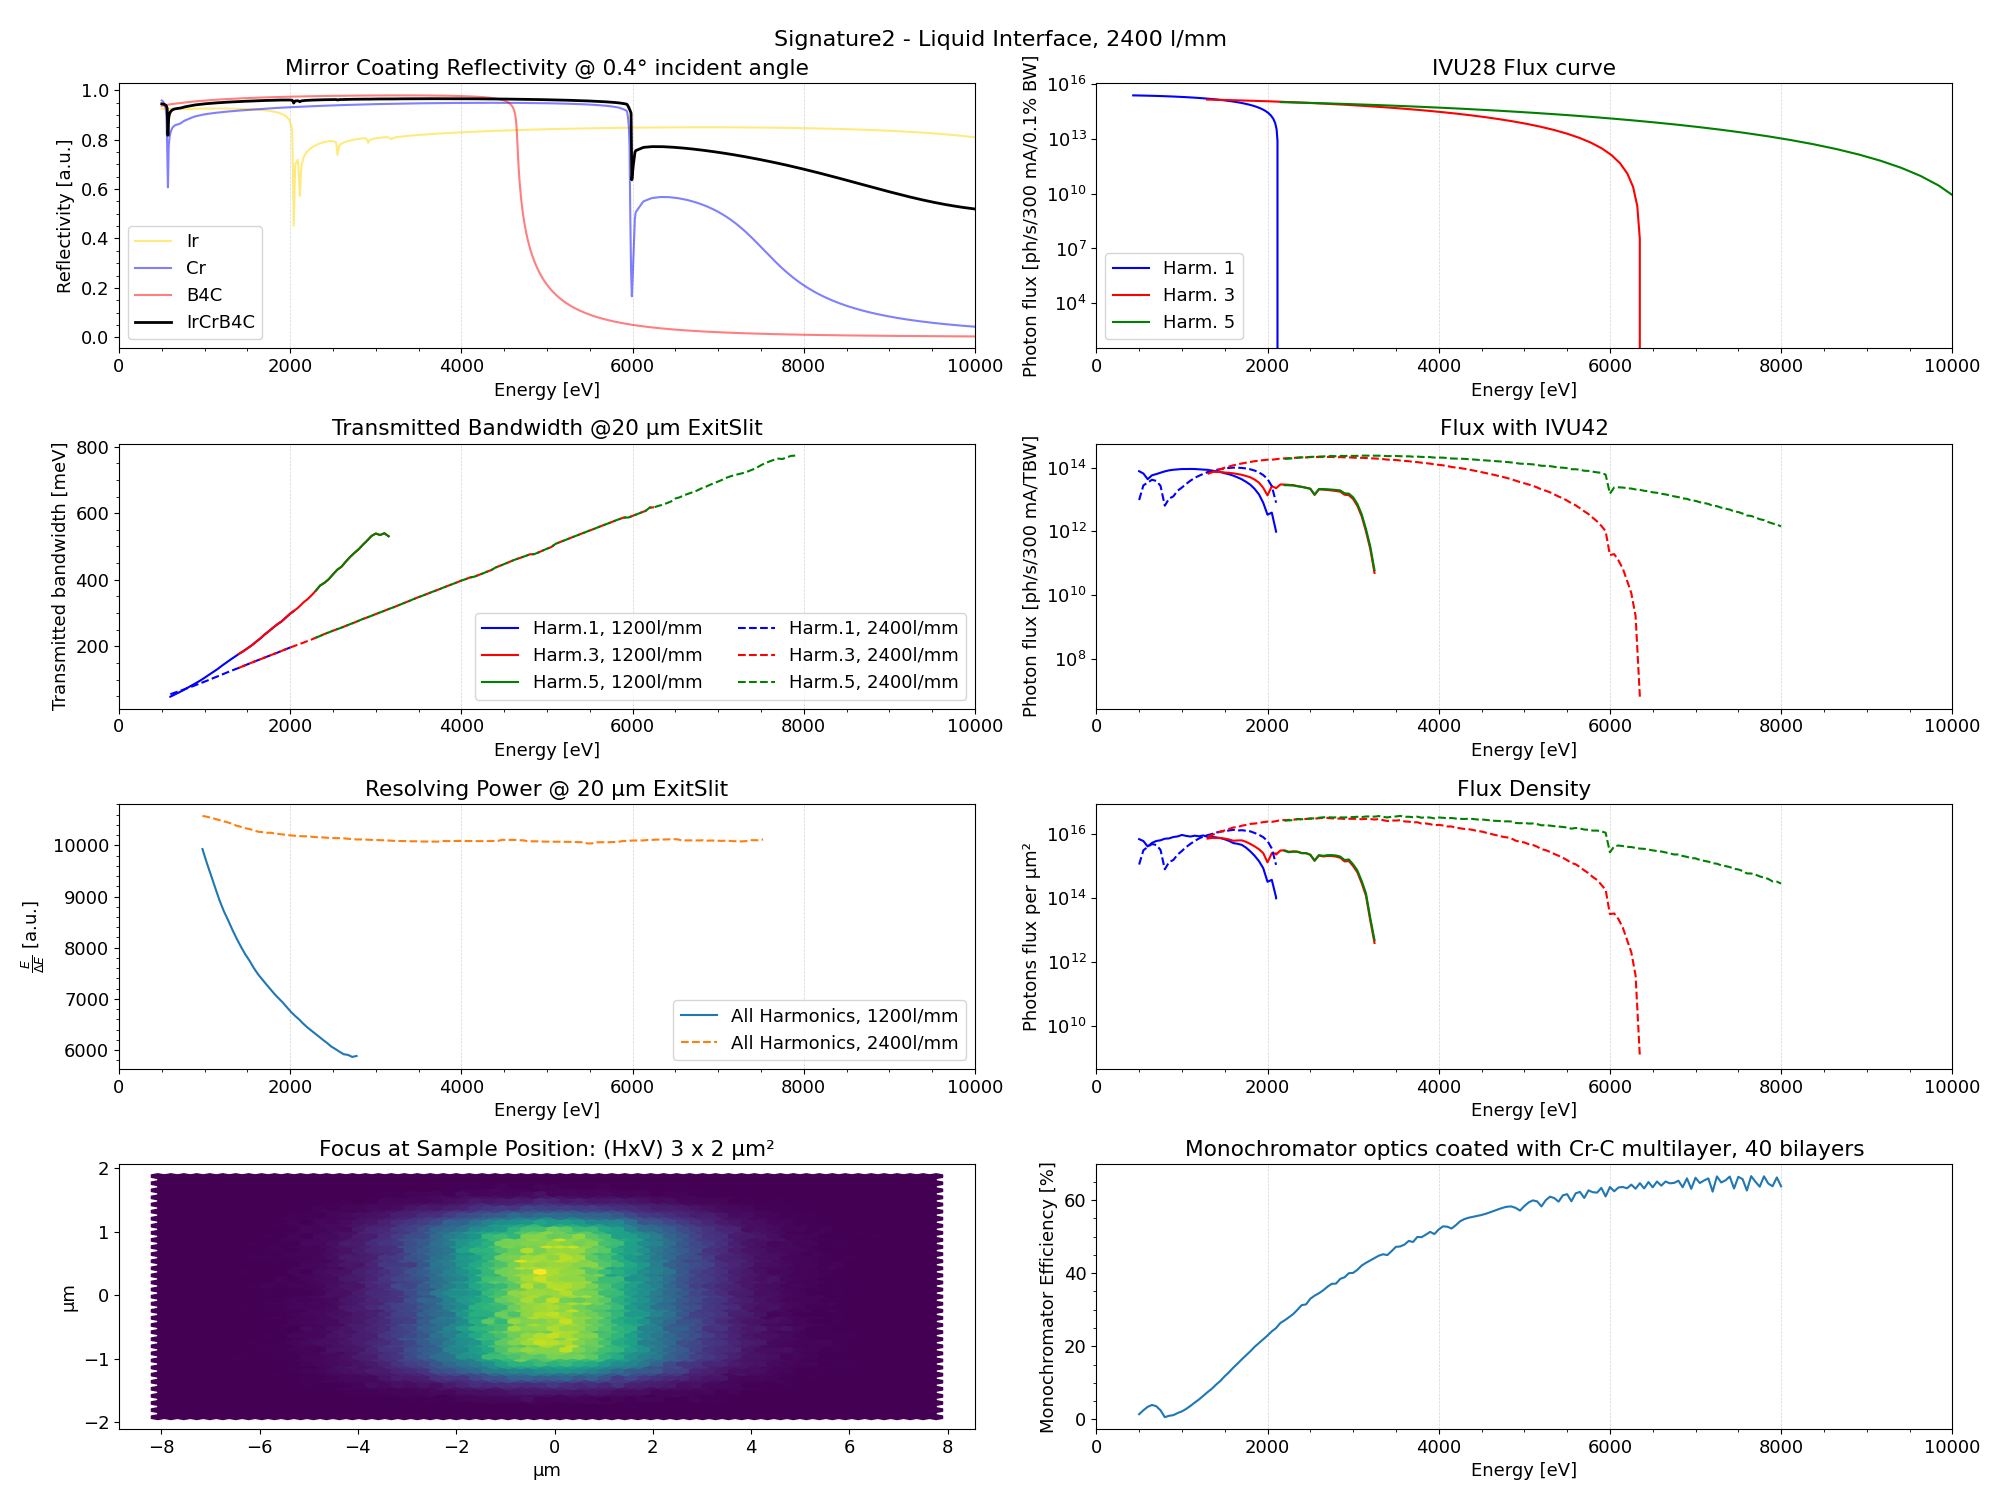
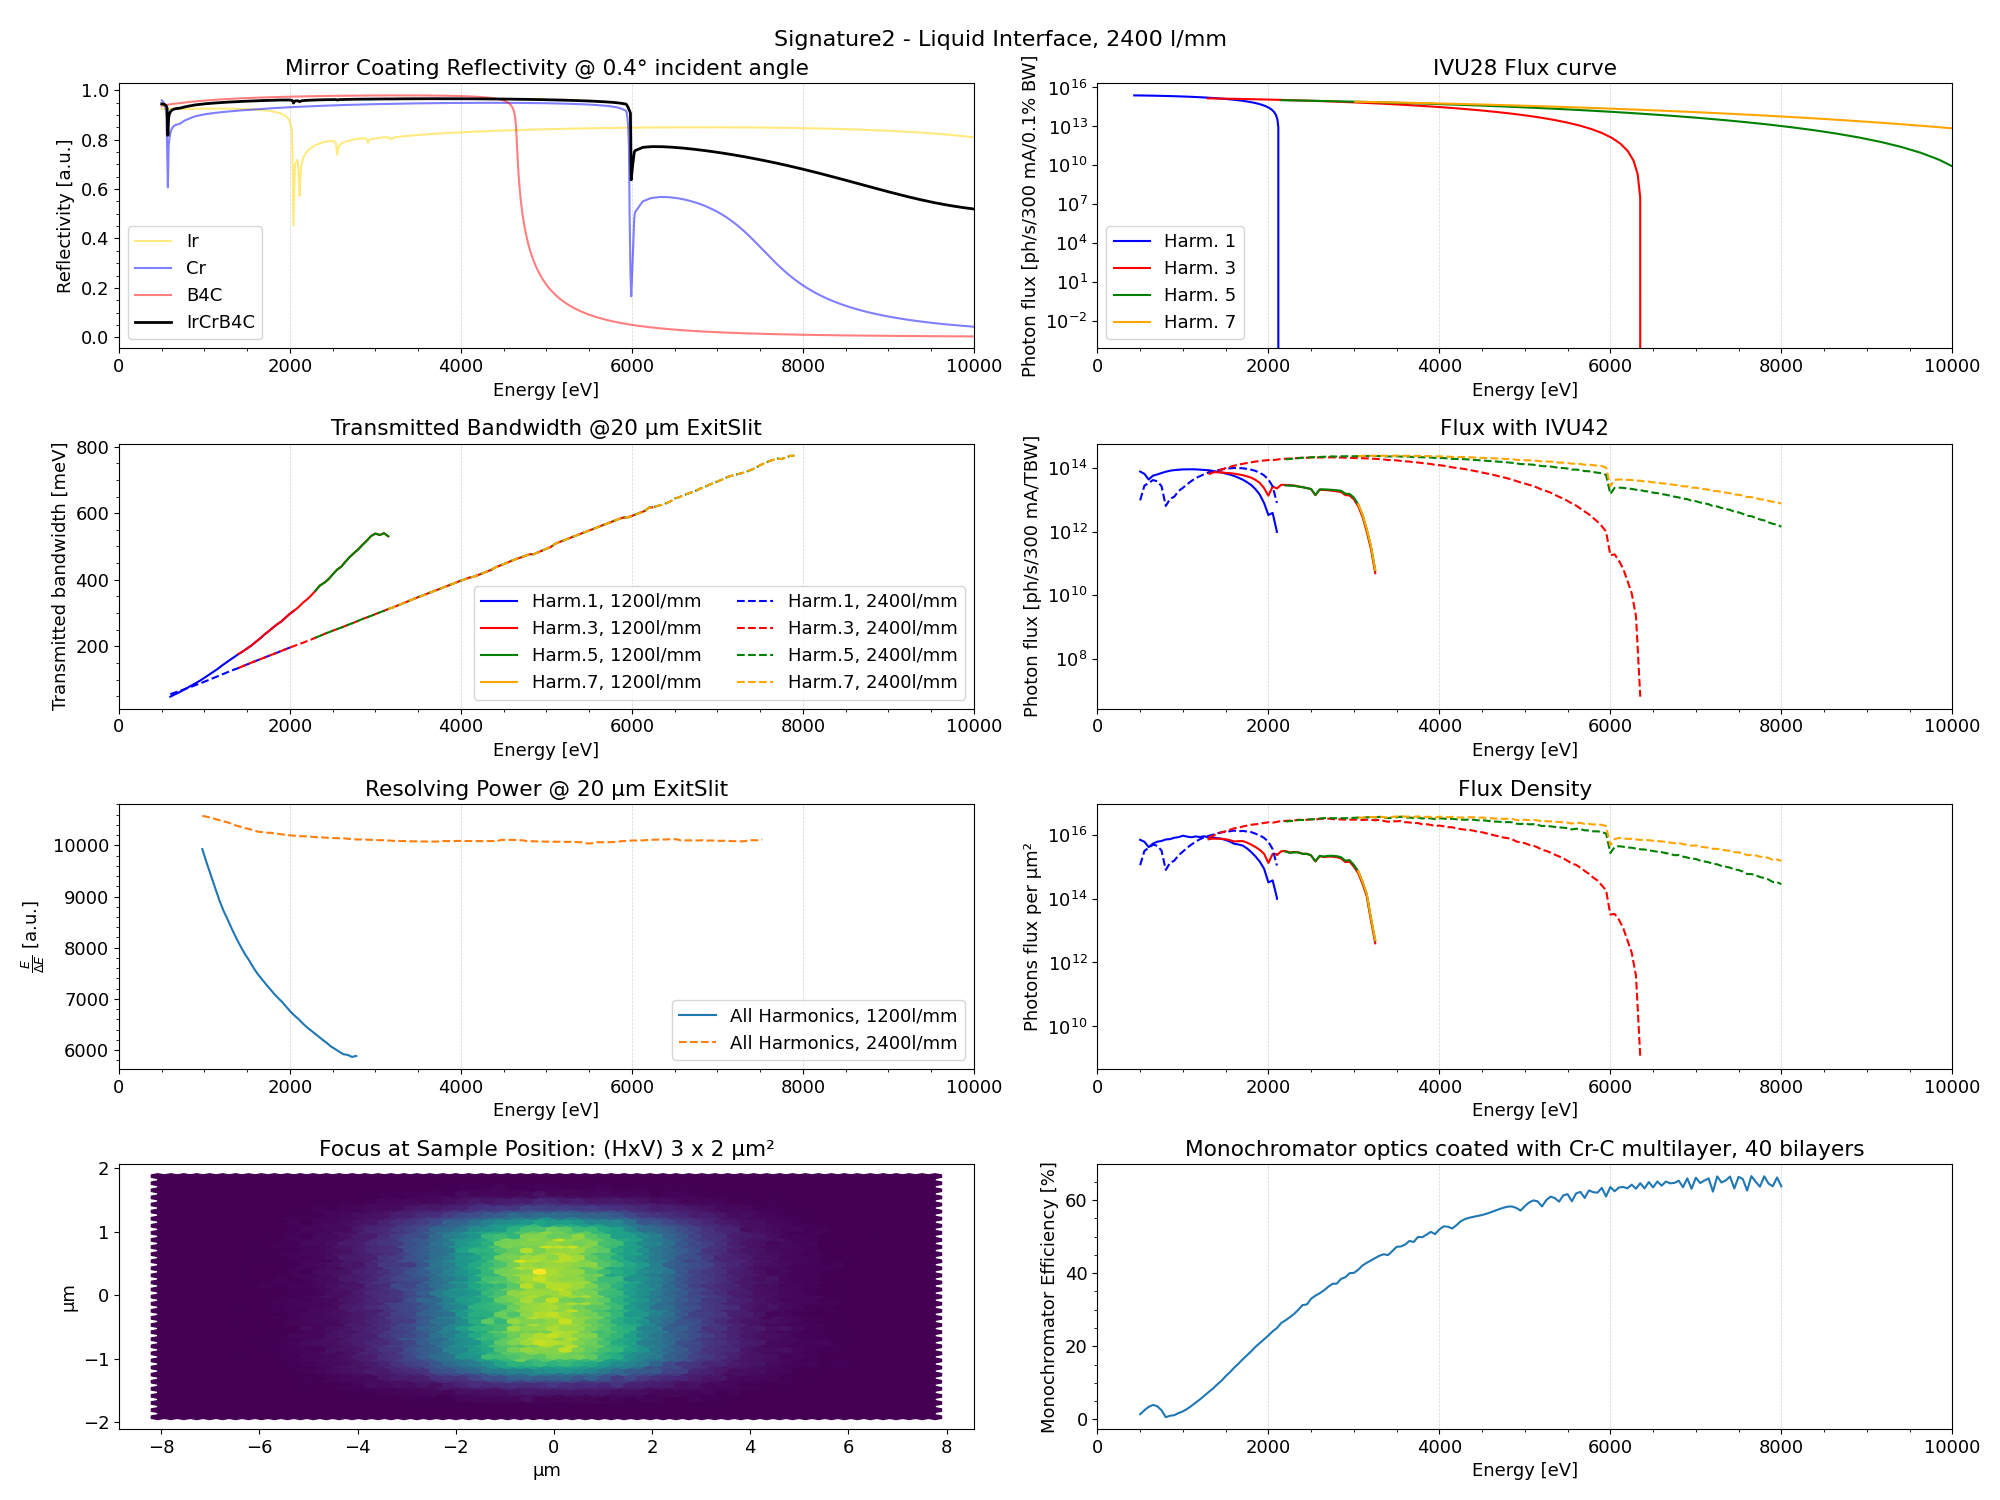
eval

diff --git a/beamlines/Signature1-SoTeXS/simulations/coatings/coatings.py b/beamlines/Signature1-SoTeXS/simulations/coatings/coatings.py
@@ -1,0 +1,98 @@
+import os
+import matplotlib.pyplot as plt
+import numpy as np
+import xrt.backends.raycing.materials as rm
+import warnings
+warnings.filterwarnings(
+    "ignore",
+    message="Reading `.npy` or `.npz` file required additional header parsing as it was created on Python 2. Save the file again to speed up loading and avoid this warning."
+)
+from helper_lib import get_reflectivity
+
+##############################################################
+# PLOTTING AND ANALYSIS
+plt.rcParams.update({'font.size': 20})  # Change 14 to any size you prefer
+# Create the Main figure
+fig, (axs) = plt.subplots(2, 1, figsize=(20, 15))
+x_range = [500, 8000]
+
+# MIRROR REFLECTIVITY
+ax1 = axs[0]
+# Coatings:
+table = 'Henke'
+theta = 0.4
+E = np.arange(500, 8001, 0.01)
+Ir  = rm.Material('Ir',  rho=22.56, kind='mirror',table=table)
+Cr  = rm.Material('Cr',  rho=7.15,  kind='mirror',table=table)
+B4C = rm.Material('C',   rho=2.52,  kind='mirror',table=table)
+
+
+Ir_r, _ = get_reflectivity(Ir, E=E, theta=theta)
+Cr_r, _ = get_reflectivity(Cr, E=E, theta=theta)
+B4C_r, _ = get_reflectivity(B4C, E=E, theta=theta)
+
+ax1.plot(E, Ir_r, 'darkgrey', label='Ir', alpha=1)
+ax1.plot(E, Cr_r, 'crimson', label='Cr', alpha=1)
+ax1.plot(E, B4C_r, 'forestgreen', label='B4C', alpha=1)
+
+ax1.set_title('Ir, Cr, B4C single layer reflectivity @ 'f'{theta}° incident angle')
+ax1.set_xlabel('Energy [eV]')
+ax1.set_ylabel('Reflectivity [a.u.]')
+ax1.legend()
+ax1.set_xlim(x_range)
+ax1.minorticks_on()
+ax1.grid(which='major', axis='x', linestyle='--', linewidth=0.5, color='lightgrey')
+
+ax1 = axs[1]
+
+
+B4C_t = 4
+Cr_t = 6
+IrCrB4C = rm.Multilayer(tLayer=B4C, tThickness=B4C_t*10, 
+                        bLayer=Cr, bThickness=Cr_t*10, 
+                        nPairs=1, substrate=Ir)
+IrCrB4C_r, _ = get_reflectivity(IrCrB4C, E=E, theta=theta)
+ax1.plot(E, IrCrB4C_r, label=f'Ir, Cr {Cr_t}nm, B4C {B4C_t}nm', alpha=1)
+
+
+B4C_t = 4
+Cr_t = 0
+IrCrB4C = rm.Multilayer(tLayer=B4C, tThickness=B4C_t*10, 
+                        bLayer=Cr, bThickness=Cr_t*10, 
+                        nPairs=1, substrate=Ir)
+IrCrB4C_r, _ = get_reflectivity(IrCrB4C, E=E, theta=theta)
+ax1.plot(E, IrCrB4C_r, label=f'Ir, Cr {Cr_t}nm, B4C {B4C_t}nm', alpha=1)
+
+B4C_t = 10
+Cr_t = 0
+IrCrB4C = rm.Multilayer(tLayer=B4C, tThickness=B4C_t*10, 
+                        bLayer=Cr, bThickness=Cr_t*10, 
+                        nPairs=1, substrate=Ir)
+IrCrB4C_r, _ = get_reflectivity(IrCrB4C, E=E, theta=theta)
+ax1.plot(E, IrCrB4C_r, label=f'Ir, Cr {Cr_t}nm, B4C {B4C_t}nm', alpha=1)
+
+B4C_t = 15
+Cr_t = 2
+IrCrB4C = rm.Multilayer(tLayer=B4C, tThickness=B4C_t*10, 
+                        bLayer=Cr, bThickness=Cr_t*10, 
+                        nPairs=1, substrate=Ir)
+IrCrB4C_r, _ = get_reflectivity(IrCrB4C, E=E, theta=theta)
+ax1.plot(E, IrCrB4C_r, label=f'Ir, Cr {Cr_t}nm, B4C {B4C_t}nm', alpha=1)
+
+
+ax1.legend()
+
+fig.suptitle('Mirror Coating Reflectivity @ 'f'{theta}° incident angle', size=25)
+
+##############################################################
+# SAVING
+# Ensure the "plot" folder exists
+plot_folder = 'plot'
+if not os.path.exists(plot_folder):
+    os.makedirs(plot_folder)
+
+# Save the the figure
+plt.tight_layout()
+plt.savefig('plot/SoTeXS_coatings.png')
+# plt.show()
+plt.close()

diff --git a/beamlines/Signature1-SoTeXS/simulations/characterization/eval_both_intermediateFocus.py b/beamlines/Signature1-SoTeXS/simulations/characterization/eval_both_intermediateFocus.py
@@ -36,7 +36,7 @@ plt.rcParams.update({'font.size': 13})  # Change 14 to any size you prefer
 fig, (axs) = plt.subplots(4, 2, figsize=(20, 15))
 fig.suptitle('Signature2 - Liquid Interface, 2400 l/mm', size=16)
 x_range = [0, 10000]
-colors = ['blue', 'red', 'green']
+colors = ['blue', 'red', 'green', 'orange', 'purple', 'violet']
 
 # MIRROR REFLECTIVITY
 ax1 = axs[0, 0]
@@ -75,7 +75,7 @@ ax1.grid(which='major', axis='x', linestyle='--', linewidth=0.5, color='lightgre
 #Choose the harmonic to plot
 ax2 = axs[0, 1]
 
-harms = [1,3,5] # The Harmonics from the ID. Typically 1,3,5, rather higher. Depends on the FluxSims of the ID.
+harms = [1,3,5,7] # The Harmonics from the ID. Typically 1,3,5, rather higher. Depends on the FluxSims of the ID.
 
 for ind, harm in enumerate(harms):
     ax2.plot(undulator_df[f'Energy{harm}[eV]'],

diff --git a/beamlines/Signature1-SoTeXS/simulations/characterization/eval_both_nanoFocus.py b/beamlines/Signature1-SoTeXS/simulations/characterization/eval_both_nanoFocus.py
@@ -36,7 +36,7 @@ plt.rcParams.update({'font.size': 13})  # Change 14 to any size you prefer
 fig, (axs) = plt.subplots(4, 2, figsize=(20, 15))
 fig.suptitle('Signature2 - Liquid Interface, 2400 l/mm', size=16)
 x_range = [0, 10000]
-colors = ['blue', 'red', 'green']
+colors = ['blue', 'red', 'green', 'orange', 'purple', 'violet']
 
 # MIRROR REFLECTIVITY
 ax1 = axs[0, 0]
@@ -75,7 +75,7 @@ ax1.grid(which='major', axis='x', linestyle='--', linewidth=0.5, color='lightgre
 #Choose the harmonic to plot
 ax2 = axs[0, 1]
 
-harms = [1,3,5] # The Harmonics from the ID. Typically 1,3,5, rather higher. Depends on the FluxSims of the ID.
+harms = [1,3,5,7] # The Harmonics from the ID. Typically 1,3,5, rather higher. Depends on the FluxSims of the ID.
 
 for ind, harm in enumerate(harms):
     ax2.plot(undulator_df[f'Energy{harm}[eV]'],

diff --git a/beamlines/Signature1-SoTeXS/simulations/coatings/helper_lib.py b/beamlines/Signature1-SoTeXS/simulations/coatings/helper_lib.py
@@ -1,0 +1,19 @@
+import numpy as np
+
+#### XRT
+def get_reflectivity(material,E,theta):
+    """Calculate the reflectivity for a given material at
+    a certain incident angle theta for a given energy range E
+
+    Args:
+        material (XRT material): A material defined in XRT
+        E (np.array): the desidered energy range
+        theta (float): the grazing incidence angle
+
+    Returns:
+        rs,rp: reflectivity fr the s and p polarization
+    """    
+    theta = np.deg2rad(theta)
+    rs, rp = material.get_amplitude(E, np.sin(theta))[0:2]
+    return abs(rs)**2, abs(rp)**2
+

diff --git a/beamlines/Signature1-SoTeXS/simulations/characterization/eval_2400.py b/beamlines/Signature1-SoTeXS/simulations/characterization/eval_2400.py
@@ -39,10 +39,9 @@ x_range = [500, 8000]
 # MIRROR REFLECTIVITY
 ax1 = axs[0, 0]
 # Coatings:
-de = 38.9579-30.0000
 table = 'Henke'
 theta = 0.4
-E = np.arange(500, 8001, de)
+E = np.arange(500, 8001, 0.01)
 Au  = rm.Material('Au',  rho=19.32, kind='mirror',table=table)
 Pt  = rm.Material('Pt',  rho=21.45, kind='mirror',table=table)
 Rh = rm.Material('Rh',  rho=12.41, kind='mirror',table=table)
